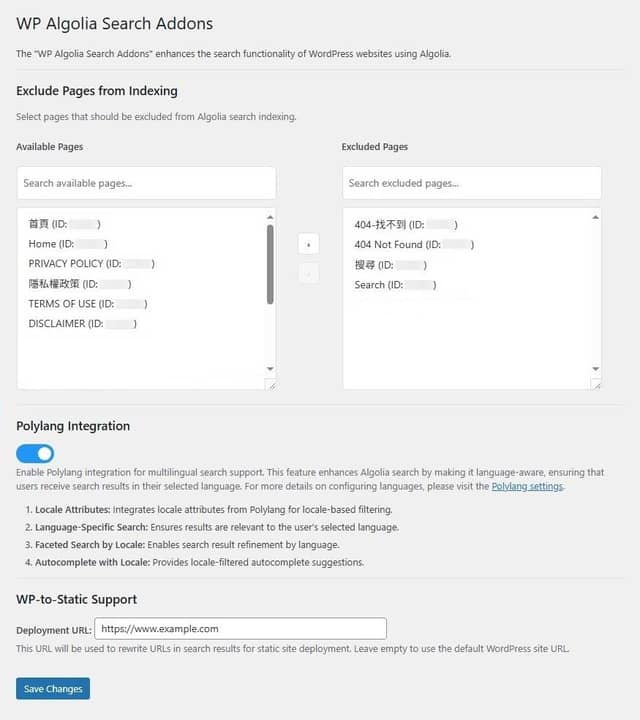
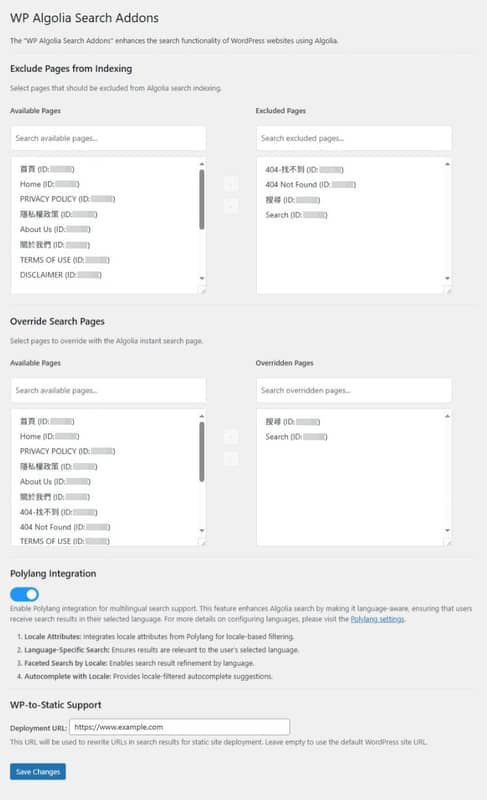
📝 docs: update for override search pages feature

diff --git a/README.md b/README.md
@@ -28,6 +28,7 @@
   - **Autocomplete with Locale**: Provides locale-filtered autocomplete suggestions for multilingual users.
 - **WP-to-Static Support**:
   - **URL Rewrite**: Rewrites site URLs with deployment URLs for static site generation.
+- **Override Pages with Instantsearch**: Allows you to override specific pages with the Algolia instantsearch page, creating a dedicated search page on your site.
 
 ## Prerequisites
 
@@ -52,6 +53,7 @@ Once the plugin is installed and activated, navigate to the settings page by sel
 
 The settings page allows you to:
 - **Exclude Pages**: Select pages to exclude from Algolia search indexing. You can search for pages and move them between the "Available" and "Excluded" lists.
+- **Override Search Pages**: Select pages to override with the Algolia instant search page.
 - **Enable/Disable Polylang Integration**: Toggle the Polylang integration on or off.
 - **Set Deployment URL**: Configure a deployment URL for WP-to-Static support.
 
@@ -59,7 +61,9 @@ For more detailed documentation, please refer to our [documentation page](docs/i
 
 ## Screenshots
 
-![Settings page](/docs/screeshots/settings.jpg)
+![Sidebar Menu](docs/screenshots/sidebar-menu.jpg)
+
+![Settings page](docs/screenshots/settings.jpg)
 
 ## FAQ
 

diff --git a/docs/override-search-pages-with-instantsearch.md b/docs/override-search-pages-with-instantsearch.md
@@ -1,0 +1,17 @@
+# Override Pages with Instantsearch
+
+This feature allows you to override specific pages with the Algolia instantsearch page. This is useful for creating a dedicated search page on your site.
+
+## Configuration
+
+To configure this feature, go to the WP Algolia Search Addons settings page in your WordPress admin dashboard. You will find a section called "Override Search Pages".
+
+In this section, you can select the pages that you want to override with the Algolia instantsearch page. You can search for pages and move them between the "Available Pages" and "Overridden Pages" lists.
+
+![Override Search Pages Settings](screenshots/override-search-pages-settings.jpg)
+
+## How it Works
+
+When a user visits one of the overridden search pages, the plugin will load the Algolia instantsearch template instead of the default page template. The instantsearch template is determined by the settings of the WP Search with Algolia plugin.
+
+The plugin will also enqueue the necessary CSS and JavaScript files from the WP Search with Algolia plugin to ensure that the instantsearch page is displayed correctly.

diff --git a/docs/features.md b/docs/features.md
@@ -8,6 +8,14 @@ This feature allows you to exclude specific pages from being indexed by Algolia.
 
 The settings page provides an intuitive user interface to manage the excluded pages. You can easily search for pages and move them between the "Available Pages" and "Excluded Pages" lists.
 
+## Override Pages with Instantsearch
+
+This feature allows you to override specific pages with the Algolia instantsearch page. This is useful for creating a dedicated search page on your site.
+
+The settings page provides an intuitive user interface to manage the overridden pages. You can easily search for pages and move them between the "Available Pages" and "Overridden Pages" lists.
+
+For more details, see the [Override Pages with Instantsearch](override-search-pages-with-instantsearch.md) documentation.
+
 ## Polylang Integration
 
 This feature provides optional integration with the Polylang plugin for a seamless multilingual search experience. If Polylang is active, you can enable this feature to link search to specific languages.

diff --git a/docs/index.md b/docs/index.md
@@ -7,6 +7,7 @@ This documentation provides detailed information about the features, configurati
 ## Table of Contents
 
 - [Features](features.md)
+- [Override Pages with Instantsearch](override-search-pages-with-instantsearch.md)
 - [Polylang Integration](polylang-integration.md)
 - [WP-to-Static Support](wp-to-static-support.md)
 - [Debugging Guide](debugging.md)
